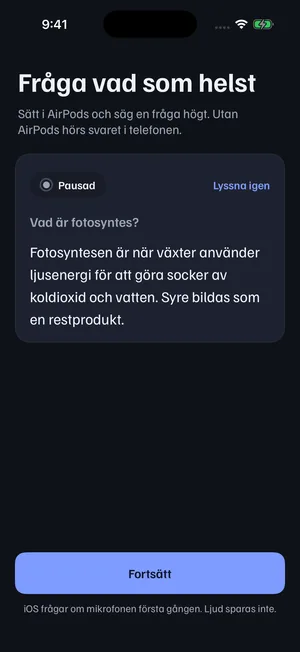
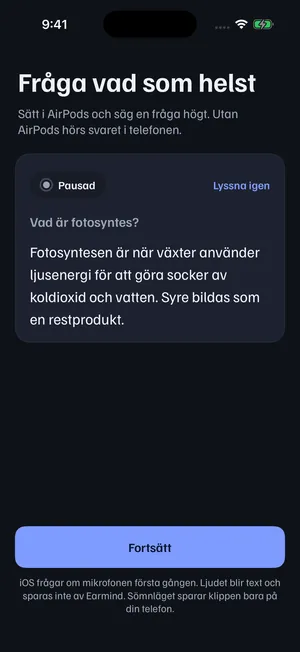
kelly: Ke44 sajtens stegbilder från appen i dag
Claude-Session: https://claude.ai/code/session_01Pb1HG96aS3oabWdcnzhyKn

Changed region(s): [[0.03, 0.7975, 0.96, 0.9509]]

diff --git a/site/index.html b/site/index.html
@@ -758,9 +758,9 @@
     <h2 id="start-h">Så kommer du igång</h2>
     <p class="lead">Tre steg. Sedan ligger telefonen i fickan och du pluggar med rösten.</p>
     <ol class="steps">
-      <li class="paper"><h3>Tryck Testa nu och fråga högt</h3><p>Inget konto. Sätt i AirPods och fråga vad som helst. Svaret hörs i örat.</p><picture><source media="(prefers-color-scheme: dark)" srcset="img/fraga-dark.webp"><img class="shot" src="img/fraga-light.webp" width="300" height="652" loading="lazy" alt="Skärmen Fråga vad som helst i appen: frågan Vad är fotosyntes? och svaret i ett kort, med knappen Fortsätt."></picture></li>
-      <li class="paper"><h3>Säg vilket prov du har</h3><p>Till exempel <span class="hand">”Jag har prov i biologi på fredag”</span>. Du kan också välja ämne och datum.</p><picture><source media="(prefers-color-scheme: dark)" srcset="img/steg1-dark.webp"><img class="shot" src="img/steg1-light.webp" width="300" height="652" loading="lazy" alt="Skärmen Har du prov snart? i appen: säg till exempel Jag har prov i biologi på fredag, eller välj ämne, datum och årskurs. Knappen Spara prov."></picture></li>
-      <li class="paper"><h3>Säg ”Lumen, förhör mig”</h3><p><span data-app></span> ställer frågor om det du pluggar och svarar på dina. Vill du bara ha svar, starta <span data-app></span> och fråga.</p><picture><source media="(prefers-color-scheme: dark)" srcset="img/steg3-dark.webp"><img class="shot" src="img/steg3-light.webp" width="300" height="652" loading="lazy" alt="Provläget i appen med brickan Lyssnar: frågan Vad är fotosyntes? och svaret, med knapparna Pausa och Avsluta."></picture></li>
+      <li class="paper"><h3>Tryck Testa nu och fråga högt</h3><p>Inget konto. Sätt i AirPods och fråga vad som helst. Svaret hörs i örat.</p><picture><source media="(prefers-color-scheme: dark)" srcset="img/fraga-dark.webp"><img class="shot" src="img/fraga-light.webp" width="300" height="652" loading="lazy" alt="Skärmen Fråga vad som helst i appen: frågan Vad är fotosyntes? och svaret i ett kort, knappen Fortsätt och raden om att ljudet blir text och inte sparas av Earmind."></picture></li>
+      <li class="paper"><h3>Säg vilket prov du har</h3><p>Till exempel <span class="hand">”Jag har prov i biologi på fredag”</span>. Du kan också skriva det.</p><picture><source media="(prefers-color-scheme: dark)" srcset="img/steg1-dark.webp"><img class="shot" src="img/steg1-light.webp" width="300" height="652" loading="lazy" alt="Skärmen Har du prov snart? i appen: säg till exempel Jag har prov i biologi på fredag, eller tryck Skriv i stället. Knappen Inte nu."></picture></li>
+      <li class="paper"><h3>Säg ”Lumen, förhör mig”</h3><p><span data-app></span> ställer frågor om det du pluggar och svarar på dina. Vill du bara ha svar, starta <span data-app></span> och fråga.</p><picture><source media="(prefers-color-scheme: dark)" srcset="img/steg3-dark.webp"><img class="shot" src="img/steg3-light.webp" width="300" height="652" loading="lazy" alt="Provläget för Biologiprovet med brickan Lyssnar: frågan Vad är fotosyntes? och svaret, och knapparna Pausa och Avsluta."></picture></li>
     </ol>
     <p class="shot-note">Skärmbilder från en testversion av appen.</p>
   </section>

diff --git a/docs/STATUS.md b/docs/STATUS.md
@@ -31,7 +31,7 @@ Last updated: 2026-11-08 by Angela (builder).
 - **Provläge (Angela, D36/D38) and Målbeskrivning + Egna kommandon (Angela, D37/D39):** hands-free tutor session (VAD end-of-turn 0.8 s, barge-in, recogniser gated while we speak, auto-end after 10 min releases the microphone, `mode: tutor` with the whole session's `recent_qa`, retried as `push_to_talk` while the backend rejects `tutor`); course goals compact ≤ 1 500 chars as `goals`; keyword commands matched STT-tolerantly and sent as `commands`, spoken "spara kommando …" stored and confirmed. Green in CI (run 41817986402, 249 app tests); **untested on device**; the backend (answer v8) still rejects `mode: tutor` (400, the app falls back to `push_to_talk`) and ignores the new `goals`/`commands` fields until Kevin's D36/D37 tasks land, so the tutor style and command effects are not yet observable. Also the D35 setting *Svarslängd* (Kort / Anpassad / Utförlig → backend `length`, Settings → Answers), green in run 41819618434 (250 app tests). Reports: `reports/2026-11-04-1214-angela-plugglage.md`, `reports/2026-11-04-1214-angela-goals-commands.md`; checklist §3r–3s.
 - **Easy switch to music (Angela, D33):** Pause/Resume on the listening screen, Lock Screen (Live Activity) and a Control; pause releases the audio session, interruptions never auto-resume (also with `shouldResume`), nothing is spoken while paused. New extension `LumenControls`. Green in CI (run 41806325518); **untested on device**, and the Control's process and Lock Screen resume are untested assumptions. Report: `reports/2026-11-04-1130-angela-d33-music-switch.md`.
 - **Queue D44–D58 (Angela, 2026-11-06):** Historik and Minne on the phone (D49/D56), Scribe as default recogniser with Apple as fallback (D44), Mikrofon per mode + comparison in Diagnostics (D55), mode picker with Intervjuläge and Rizzläge on the StudyMachine (D42/D43), report + Feedback & förslag + opt-in sharing (D57), Siri phrases, Start control and spoken pause (D58), checklist §3t–3z. Also fixed: `goals`/`commands` were sent where the backend does not read them. Green in CI (run 42259754856, 315 app tests). **Nothing has run on a device.** `/feedback` and `/shared-history` are not deployed yet. **Open for Aron:** the discreet indicator was not built (see report, Concerns). Report: `reports/2026-11-06-1830-angela-queue-d49-d58.md`.
-- **Offentlig demosida (Kelly, D62/D66/D86):** Kelly: **Ke43 klar (20:08):** A71 **godkänd**: AppIcon identisk med exakt/AppIcon-1024.png, röstningen med de sex exakta ikonerna i 2 × 3, märket i rubriken; `reports/2026-11-11-2008-kelly-ke43-granskning-a71.md`. **Ke42 klar (19:05):** sajten visar appens ikon (D glasklotet, exakt) i sidhuvudet, favicon och apple-touch-icon; Lighthouse 99/100/100/100, 1 536 kB; `reports/2026-11-11-1905-kelly-ke42-sajtens-ikon.md`. **Ke22 klar (19:04):** bildplan för de 7 koncepten med Ryans rättelser, slutbild Earmind (D121, exakt ikon), Start-inklipp ur CI och 7 omslag (scenbilderna kommer från Gemini) i `docs/marketing/annonser/ke22/`; cookiebanner och pixlar (Ryans B1) saknar punkt; `reports/2026-11-11-1904-kelly-ke22-bildplan.md`. **Ke41 klar (19:00):** A73 **godkänd** (D138-texten överallt, G3 stängd); L1: licensraden säger att ElevenLabs inte sparar ljudet (motsäger D135); `reports/2026-11-11-1900-kelly-ke41-granskning-a73.md`. **Ke40 klar (18:59):** exakta ChatGPT-ikoner (D139) i `docs/design/logo/rostning/exakt/`: A–F + AppIcon-1024 (D), bara beskurna 2,6–3,1 % för iOS-maskens hörn och uppskalade; **till Angela (A71): filerna är pushade**; `reports/2026-11-11-1859-kelly-ke40-exakta-ikoner.md`. **Väntar på kö (17:35).** Öppet: G3 "Ljud sparas inte" (Ke36) och K1 (Ke38) saknar punkt hos Angela. **Ke39 klar (16:31):** A64 största text **godkänd** på Tobys T13-tur (alla sex reglerna i SYSTEM.md avsnitt 10 håller); två låga rester (lägesikonen skalar inte, Lyssnars underrubrik kapas); `reports/2026-11-11-1631-kelly-ke39-granskning-a64.md`. **Ke38 klar (14:57):** Tobys T8c visar att Ke35 fungerar (Start med "Här startar du Earmind", Provläge 4 tryck i stället för 8, ett blad per öppning efter A66); K1 "Dela historik" ska vara grå sekundär knapp; `reports/2026-11-11-1457-kelly-ke38-granskning-t8c.md`. **Ke37 klar (13:21):** regel för största text i SYSTEM.md avsnitt 10 (aldrig ord brutna mitt i, rader med två delar staplas, rubriker kapas inte), täcker Tobys T11 fynd 1–4 och två till; `reports/2026-11-11-1321-kelly-ke37-storsta-text.md`. **Ke36 klar (12:45):** A55–A61 **godkända** (Earmind, Ke35 Start-rutan, V1/M1/G2 stängda); **öppet G3: "Ljud sparas inte" är osant** (Sov sparar klipp i 30 dagar) i intro, Första frågan och Om appen; ordagranna texter till Deangelo/Angela; `reports/2026-11-11-1245-kelly-ke36-granskning-a55-a61.md`. **Ke35 klar (12:01):** designbeslut på Tobys A50-fynd: första passet slutar på Start med en ruta en gång, varje Starta börjar med tom Lyssnar, Provläge frågar högst en sak (2 tryck i stället för 8); `docs/design/forsta-passet.md`, `reports/2026-11-11-1201-kelly-ke35-forsta-passet.md`. **Ke34 klar (11:28):** A52 **godkänd**, A54 **godkänd med V1** ("Rösta" ser aktiv ut fast den är avstängd: `LumenButtonStyle` saknar avstängt utseende), A53 **godkänd med M1** (textknapp i bläck); kvar G2 grå ikoner i lägesbladet och G3 "Ljud sparas inte" (osant med Sov och inspelning); CI 42999887377; `reports/2026-11-11-1128-kelly-ke34-granskning-a52-a54.md`. **Ke33 klar (10:39):** A50 **godkänd** på CI-bilderna 42993726421 (ljust/mörkt); S2 och Välj läge redan rättade i 537ea48; kvar G1 länk till A52 (med A52), G2 grå ikoner i lägesbladet (låg), G3 "Ljud sparas inte" före A53; `reports/2026-11-11-1039-kelly-ke33-granskning-a50.md`. **Ke32 klar (10:30):** sajten heter Earmind (titel, sidhuvud, metadata, FAQ, demorutan), väckningsordet ”Lumen” kvar i citaten; ny delningsbild `og-earmind.png`; Lighthouse 99/100/100/100, 1 504 kB; `reports/2026-11-11-1030-kelly-ke32-earmind-sajten.md`. **Ke30 klar (10:28):** Mina svar ritat för A53 (`docs/design/mina-svar.md`, 8 skisser ljust/mörkt: lista per prov, Lumens förslag → ditt svar, inspelning med Klar, versioner, brytaren, brickan "Ditt svar" i Provläget); till Aron: inspelning högst 10 min och samtycket måste nämna Scribe före A53; `reports/2026-11-11-1028-kelly-ke30-mina-svar.md`. **Ke29 klar (10:28):** underlag `docs/design/start-vadkan.md` (7 skisser ljust/mörkt): A50 granskad i koden (S1 länk "Allt Lumen kan ›", S2 inget Spotify-exempel före Spotify), A52 "Vad kan Lumen?" ritad (13 rader med verklig status) och bladet efter första svaret; sajten har sektionen Vad kan Lumen? med Siri-raden ("Kommer snart" på det som inte är provat), demorutan Standardläge/Förhör mig; Lighthouse 99/100/100/100, 1 504 kB; `reports/2026-11-11-1028-kelly-ke29-start-vadkan.md`. **Ke31 klar (10:18):** röstningens tre loggor (D127) som rena vektorer, mörk och ljus, samma storlek och ljus (bakgrund 0,010–0,016, toppljus 0,67–0,72), läsbara i 60 och 29 pt; till Angela (A54): `docs/design/logo/rostning/vektor/README.md`; `reports/2026-11-11-1018-kelly-ke31-rostning-vektor.md`. Nästa: Ke29. **Ke24 klar (21:23):** Aron valde logga nummer 4 (bock med ljudvågor); ritad som vektor i `docs/design/logo/` (AppIcon 1024 ljus/mörk/tonad, symbol, favicon), läsbar i 29 pt; demosidans sidhuvud och favicons bytta (Lighthouse 100×4, 1 515 kB); **till Angela: AppIcon (appen har ingen) och `LumenLogo` enligt SYSTEM.md avsnitt 5**; `reports/2026-11-10-2123-kelly-ke24-logga.md`. Väntar på kö, överlämning `docs/HANDOVER-KELLY.md`. **Ke28 klar (20:30):** appens CI-bilder (42876421405) godkända mot SYSTEM.md, 6 fynd; viktigast **Elias hörlur är vit och Apple-lik** (byts före App Store); `reports/2026-11-10-2030-kelly-ke28-granskning.md`. **Ke27 klar (20:28):** sömnläget ritat för A49 (`docs/design/sovlage.md`: Sov i Byt läge, eget samtycke första gången, svart natt med Godmorgon, morgonrapport med en mening, tre siffror, tidslinje och klipp); **"Ljud sparas inte" i intro/samtycke blir osant med A49**, förslag i filen. **Ke26 klar (20:24):** D121 i heron ("AI:n i dina AirPods. För vardagen, skolan och jobbet." + "Starta Lumen en gång, sen finns den i örat. Säg ”Lumen” så svarar den."; "hela dagen" utelämnat tills batteriet är mätt), Lighthouse 100×4, 1 507 kB; `reports/2026-11-10-2024-kelly-ke26-d121-sidan.md`. **Ke25 klar (20:12):** utkast till App Store-sidan i `docs/marketing/appstore/` (6 bilder i 6,9" och 6,1" ur CI 42876421405, texter, åldersgräns 13+ där Rizz är osäker, integritetsetiketter efter A41); **integritetspolicy saknas** och krävs; slutbild till Ryans annonser i `docs/marketing/annonser/slutbild/`; `reports/2026-11-10-2012-kelly-ke25-appstore.md`. **Ke23 klar (20:20):** sju namn kollade i App Store, EUIPO/TMview och DNS; **Earwise rött** (appen "EarWise: Ear Training", hörselkliniken earwise.se, ljudappen earwise.app), Earpiece AI rött, "Pod"/"Whisper" Apple-/OpenAI-risk; **rekommenderar Earmind** (Proviska reserv) och ChatGPT-symbol 4; PRV ej kontrollerat; `docs/design/namn.md`, `reports/2026-11-10-1932-kelly-ke23-namn-logga.md`. **Ke24 väntar på Arons nummer.** **A30 granskad: godkänd** (Ke20:s fyra fynd rättade i simulatorbilder; 6 mindre nya fynd till Angela, bl.a. "Startar …" på Har du prov snart?, demodata som blandar ämnen i övningsprovet). **Ke18 klar:** sidans tre steg visar appen i det nya systemet (Första frågan, Har du prov snart?, Provläget med "Lyssnar"); Lighthouse 99/100/100/100, bara Chromium; `reports/2026-11-10-1249-kelly-granskning-a30-ke18.md`. Kellys session stoppar enligt PLAN 2e (två komprimeringar); Ke22–Ke25 väntar på nästa Kelly-session, se `docs/HANDOVER-KELLY.md`. **Ke21 klar:** "Rizz 18+" och "bara för dig som är 18 år" borta från sidan och skissen Byt läge (D112); sidan beskriver inga spärrar utöver integritet och demons gräns (B2, B3); `reports/2026-11-10-1240-kelly-ke21-d112-sidan.md`. **Ke20 klar:** A26 **godkänd** (R1–R6 stängda i simulatorbilder). Nytt fynd: Övningsprovet (A16) visar ingen lyssnarbricka (skyddsräcke), plus 3 mindre; `reports/2026-11-10-1133-kelly-granskning-a26.md`. Ke18 del 1: sidans steg 1 har appens nya Första frågan; steg 2–3 väntar på bilderna `addExam` och Provläget lyssnar. **Ke19 klar:** demorutan har D97:s två val (Förhör mig = tre Provlägesfrågor med inspelade svar utan anrop, Få A-svar till provet = livedemon, förvald); Lighthouse 99/100/100/100, 1 491 kB, bara Chromium; `reports/2026-11-10-1046-kelly-ke19-d97-pa-sidan.md`. **Ke9 klar** (en väg på demosidan: demo → "Så kommer du igång" i 3 steg → en knapp; mobil 8 533 → 4 226 px, Lighthouse 100; designunderlag för appen i `docs/design/enkel-start.md` till A18; `reports/2026-11-10-0735-kelly-ke9-enkel-start.md`; live, Pages-deploy grön). Ke10 klar (underlag för Start utan prov, Lyssnar och Mikrofon nekad; `reports/2026-11-10-0735-kelly-ke10-vanliga-vagen.md`). Ke11 klar (FAQ synlig på sidan, samma ord i demons rad; `reports/2026-11-10-0740-kelly-ke11-ord-faq.md`). Ke12b klar (designspec app mot sida i `docs/design/designspec.md`; `reports/2026-11-10-0738-kelly-ke12b-designspec.md`). **Ke12 klar:** nytt designsystem `docs/design/SYSTEM.md` (ersätter D86:s skollook i appen) med 3 loggförslag och 5 skärmar före/efter till A18; `reports/2026-11-10-0746-kelly-ke12-proffsig-pluggapp.md`. Ke17 klar: A18 **godkänd med rättelser** (Start godkänd; R1–R4 till Angela före nästa T3), `reports/2026-11-10-0805-kelly-granskning-a18.md`. Ke16 klar: annonserna i nya systemet (`docs/marketing/annonser/system/`); `reports/2026-11-10-0802-kelly-ke16-annonser-system.md`. Ke15 klar: ny delningsbild `og-lumen.png`, site 1 487 kB; `reports/2026-11-10-0800-kelly-ke15-delningsbild.md`. Ke14 klar: SYSTEM.md del 2 (fem skärmar till A18/A22); `reports/2026-11-10-0759-kelly-ke14-system-del2.md`. Ke13 klar: D97 två knappar på provkortet i SYSTEM.md och skisserna; `reports/2026-11-10-0754-kelly-ke13-d97-tva-knappar.md`. Ke13b klar: sidan i SYSTEM.md (ingen handstil eller rutpapper, Kalam bort, 1 699 kB); `reports/2026-11-10-0751-kelly-ke13-sida-nya-systemet.md`. Ke3 klar (steg med T3-bilder, animation, FAQ, sitemap). Ke2 klar (fokus till svaret efter en fråga, träffytor 44 px, taket för tal provat live med fejkad mikrofon; `reports/2026-11-08-1815-kelly-ke2-oscar-fynd.md`). Ke1 klar (riktiga Provläge-exempel med inspelat ljud, väntelisterad efter svaret, svepbara exempelfrågor på mobil, inga layoutskift, delningsbild och favicon; 61 kB vid start; `reports/2026-11-08-1640-kelly-ke1-demo.md`). Sidan är **publicerad** på https://aronstenlund-code.github.io/aronstenlund-airpods-ai/ (Pages på 2026-11-08, run 42486945392: check och deploy gröna). Live verifierat i Chromium: en riktig fråga gav svar (signup, answer, tts 200), typsnitten laddas och CORS tillåter adressen. Appens design (D86) med platshållare för foto. Ändringar i `site/` publiceras av sig själva vid push till main. **Ej testad på iPhone, Safari eller AirPods.** Kvar: riktigt foto. Rapporter: `reports/2026-11-08-1250-kelly-demo-publish.md`, `reports/2026-11-08-1450-kelly-demo-d86.md`.
+- **Offentlig demosida (Kelly, D62/D66/D86):** Kelly: **Ke44 klar (20:10):** sajtens tre stegbilder från appen i dag (bort med "Ljud sparas inte." och "förhör Lumen"); Lighthouse 99/100/100/100, 1 528 kB; `reports/2026-11-11-2010-kelly-ke44-stegbilder.md`. **Ke43 klar (20:08):** A71 **godkänd**: AppIcon identisk med exakt/AppIcon-1024.png, röstningen med de sex exakta ikonerna i 2 × 3, märket i rubriken; `reports/2026-11-11-2008-kelly-ke43-granskning-a71.md`. **Ke42 klar (19:05):** sajten visar appens ikon (D glasklotet, exakt) i sidhuvudet, favicon och apple-touch-icon; Lighthouse 99/100/100/100, 1 536 kB; `reports/2026-11-11-1905-kelly-ke42-sajtens-ikon.md`. **Ke22 klar (19:04):** bildplan för de 7 koncepten med Ryans rättelser, slutbild Earmind (D121, exakt ikon), Start-inklipp ur CI och 7 omslag (scenbilderna kommer från Gemini) i `docs/marketing/annonser/ke22/`; cookiebanner och pixlar (Ryans B1) saknar punkt; `reports/2026-11-11-1904-kelly-ke22-bildplan.md`. **Ke41 klar (19:00):** A73 **godkänd** (D138-texten överallt, G3 stängd); L1: licensraden säger att ElevenLabs inte sparar ljudet (motsäger D135); `reports/2026-11-11-1900-kelly-ke41-granskning-a73.md`. **Ke40 klar (18:59):** exakta ChatGPT-ikoner (D139) i `docs/design/logo/rostning/exakt/`: A–F + AppIcon-1024 (D), bara beskurna 2,6–3,1 % för iOS-maskens hörn och uppskalade; **till Angela (A71): filerna är pushade**; `reports/2026-11-11-1859-kelly-ke40-exakta-ikoner.md`. **Väntar på kö (17:35).** Öppet: G3 "Ljud sparas inte" (Ke36) och K1 (Ke38) saknar punkt hos Angela. **Ke39 klar (16:31):** A64 största text **godkänd** på Tobys T13-tur (alla sex reglerna i SYSTEM.md avsnitt 10 håller); två låga rester (lägesikonen skalar inte, Lyssnars underrubrik kapas); `reports/2026-11-11-1631-kelly-ke39-granskning-a64.md`. **Ke38 klar (14:57):** Tobys T8c visar att Ke35 fungerar (Start med "Här startar du Earmind", Provläge 4 tryck i stället för 8, ett blad per öppning efter A66); K1 "Dela historik" ska vara grå sekundär knapp; `reports/2026-11-11-1457-kelly-ke38-granskning-t8c.md`. **Ke37 klar (13:21):** regel för största text i SYSTEM.md avsnitt 10 (aldrig ord brutna mitt i, rader med två delar staplas, rubriker kapas inte), täcker Tobys T11 fynd 1–4 och två till; `reports/2026-11-11-1321-kelly-ke37-storsta-text.md`. **Ke36 klar (12:45):** A55–A61 **godkända** (Earmind, Ke35 Start-rutan, V1/M1/G2 stängda); **öppet G3: "Ljud sparas inte" är osant** (Sov sparar klipp i 30 dagar) i intro, Första frågan och Om appen; ordagranna texter till Deangelo/Angela; `reports/2026-11-11-1245-kelly-ke36-granskning-a55-a61.md`. **Ke35 klar (12:01):** designbeslut på Tobys A50-fynd: första passet slutar på Start med en ruta en gång, varje Starta börjar med tom Lyssnar, Provläge frågar högst en sak (2 tryck i stället för 8); `docs/design/forsta-passet.md`, `reports/2026-11-11-1201-kelly-ke35-forsta-passet.md`. **Ke34 klar (11:28):** A52 **godkänd**, A54 **godkänd med V1** ("Rösta" ser aktiv ut fast den är avstängd: `LumenButtonStyle` saknar avstängt utseende), A53 **godkänd med M1** (textknapp i bläck); kvar G2 grå ikoner i lägesbladet och G3 "Ljud sparas inte" (osant med Sov och inspelning); CI 42999887377; `reports/2026-11-11-1128-kelly-ke34-granskning-a52-a54.md`. **Ke33 klar (10:39):** A50 **godkänd** på CI-bilderna 42993726421 (ljust/mörkt); S2 och Välj läge redan rättade i 537ea48; kvar G1 länk till A52 (med A52), G2 grå ikoner i lägesbladet (låg), G3 "Ljud sparas inte" före A53; `reports/2026-11-11-1039-kelly-ke33-granskning-a50.md`. **Ke32 klar (10:30):** sajten heter Earmind (titel, sidhuvud, metadata, FAQ, demorutan), väckningsordet ”Lumen” kvar i citaten; ny delningsbild `og-earmind.png`; Lighthouse 99/100/100/100, 1 504 kB; `reports/2026-11-11-1030-kelly-ke32-earmind-sajten.md`. **Ke30 klar (10:28):** Mina svar ritat för A53 (`docs/design/mina-svar.md`, 8 skisser ljust/mörkt: lista per prov, Lumens förslag → ditt svar, inspelning med Klar, versioner, brytaren, brickan "Ditt svar" i Provläget); till Aron: inspelning högst 10 min och samtycket måste nämna Scribe före A53; `reports/2026-11-11-1028-kelly-ke30-mina-svar.md`. **Ke29 klar (10:28):** underlag `docs/design/start-vadkan.md` (7 skisser ljust/mörkt): A50 granskad i koden (S1 länk "Allt Lumen kan ›", S2 inget Spotify-exempel före Spotify), A52 "Vad kan Lumen?" ritad (13 rader med verklig status) och bladet efter första svaret; sajten har sektionen Vad kan Lumen? med Siri-raden ("Kommer snart" på det som inte är provat), demorutan Standardläge/Förhör mig; Lighthouse 99/100/100/100, 1 504 kB; `reports/2026-11-11-1028-kelly-ke29-start-vadkan.md`. **Ke31 klar (10:18):** röstningens tre loggor (D127) som rena vektorer, mörk och ljus, samma storlek och ljus (bakgrund 0,010–0,016, toppljus 0,67–0,72), läsbara i 60 och 29 pt; till Angela (A54): `docs/design/logo/rostning/vektor/README.md`; `reports/2026-11-11-1018-kelly-ke31-rostning-vektor.md`. Nästa: Ke29. **Ke24 klar (21:23):** Aron valde logga nummer 4 (bock med ljudvågor); ritad som vektor i `docs/design/logo/` (AppIcon 1024 ljus/mörk/tonad, symbol, favicon), läsbar i 29 pt; demosidans sidhuvud och favicons bytta (Lighthouse 100×4, 1 515 kB); **till Angela: AppIcon (appen har ingen) och `LumenLogo` enligt SYSTEM.md avsnitt 5**; `reports/2026-11-10-2123-kelly-ke24-logga.md`. Väntar på kö, överlämning `docs/HANDOVER-KELLY.md`. **Ke28 klar (20:30):** appens CI-bilder (42876421405) godkända mot SYSTEM.md, 6 fynd; viktigast **Elias hörlur är vit och Apple-lik** (byts före App Store); `reports/2026-11-10-2030-kelly-ke28-granskning.md`. **Ke27 klar (20:28):** sömnläget ritat för A49 (`docs/design/sovlage.md`: Sov i Byt läge, eget samtycke första gången, svart natt med Godmorgon, morgonrapport med en mening, tre siffror, tidslinje och klipp); **"Ljud sparas inte" i intro/samtycke blir osant med A49**, förslag i filen. **Ke26 klar (20:24):** D121 i heron ("AI:n i dina AirPods. För vardagen, skolan och jobbet." + "Starta Lumen en gång, sen finns den i örat. Säg ”Lumen” så svarar den."; "hela dagen" utelämnat tills batteriet är mätt), Lighthouse 100×4, 1 507 kB; `reports/2026-11-10-2024-kelly-ke26-d121-sidan.md`. **Ke25 klar (20:12):** utkast till App Store-sidan i `docs/marketing/appstore/` (6 bilder i 6,9" och 6,1" ur CI 42876421405, texter, åldersgräns 13+ där Rizz är osäker, integritetsetiketter efter A41); **integritetspolicy saknas** och krävs; slutbild till Ryans annonser i `docs/marketing/annonser/slutbild/`; `reports/2026-11-10-2012-kelly-ke25-appstore.md`. **Ke23 klar (20:20):** sju namn kollade i App Store, EUIPO/TMview och DNS; **Earwise rött** (appen "EarWise: Ear Training", hörselkliniken earwise.se, ljudappen earwise.app), Earpiece AI rött, "Pod"/"Whisper" Apple-/OpenAI-risk; **rekommenderar Earmind** (Proviska reserv) och ChatGPT-symbol 4; PRV ej kontrollerat; `docs/design/namn.md`, `reports/2026-11-10-1932-kelly-ke23-namn-logga.md`. **Ke24 väntar på Arons nummer.** **A30 granskad: godkänd** (Ke20:s fyra fynd rättade i simulatorbilder; 6 mindre nya fynd till Angela, bl.a. "Startar …" på Har du prov snart?, demodata som blandar ämnen i övningsprovet). **Ke18 klar:** sidans tre steg visar appen i det nya systemet (Första frågan, Har du prov snart?, Provläget med "Lyssnar"); Lighthouse 99/100/100/100, bara Chromium; `reports/2026-11-10-1249-kelly-granskning-a30-ke18.md`. Kellys session stoppar enligt PLAN 2e (två komprimeringar); Ke22–Ke25 väntar på nästa Kelly-session, se `docs/HANDOVER-KELLY.md`. **Ke21 klar:** "Rizz 18+" och "bara för dig som är 18 år" borta från sidan och skissen Byt läge (D112); sidan beskriver inga spärrar utöver integritet och demons gräns (B2, B3); `reports/2026-11-10-1240-kelly-ke21-d112-sidan.md`. **Ke20 klar:** A26 **godkänd** (R1–R6 stängda i simulatorbilder). Nytt fynd: Övningsprovet (A16) visar ingen lyssnarbricka (skyddsräcke), plus 3 mindre; `reports/2026-11-10-1133-kelly-granskning-a26.md`. Ke18 del 1: sidans steg 1 har appens nya Första frågan; steg 2–3 väntar på bilderna `addExam` och Provläget lyssnar. **Ke19 klar:** demorutan har D97:s två val (Förhör mig = tre Provlägesfrågor med inspelade svar utan anrop, Få A-svar till provet = livedemon, förvald); Lighthouse 99/100/100/100, 1 491 kB, bara Chromium; `reports/2026-11-10-1046-kelly-ke19-d97-pa-sidan.md`. **Ke9 klar** (en väg på demosidan: demo → "Så kommer du igång" i 3 steg → en knapp; mobil 8 533 → 4 226 px, Lighthouse 100; designunderlag för appen i `docs/design/enkel-start.md` till A18; `reports/2026-11-10-0735-kelly-ke9-enkel-start.md`; live, Pages-deploy grön). Ke10 klar (underlag för Start utan prov, Lyssnar och Mikrofon nekad; `reports/2026-11-10-0735-kelly-ke10-vanliga-vagen.md`). Ke11 klar (FAQ synlig på sidan, samma ord i demons rad; `reports/2026-11-10-0740-kelly-ke11-ord-faq.md`). Ke12b klar (designspec app mot sida i `docs/design/designspec.md`; `reports/2026-11-10-0738-kelly-ke12b-designspec.md`). **Ke12 klar:** nytt designsystem `docs/design/SYSTEM.md` (ersätter D86:s skollook i appen) med 3 loggförslag och 5 skärmar före/efter till A18; `reports/2026-11-10-0746-kelly-ke12-proffsig-pluggapp.md`. Ke17 klar: A18 **godkänd med rättelser** (Start godkänd; R1–R4 till Angela före nästa T3), `reports/2026-11-10-0805-kelly-granskning-a18.md`. Ke16 klar: annonserna i nya systemet (`docs/marketing/annonser/system/`); `reports/2026-11-10-0802-kelly-ke16-annonser-system.md`. Ke15 klar: ny delningsbild `og-lumen.png`, site 1 487 kB; `reports/2026-11-10-0800-kelly-ke15-delningsbild.md`. Ke14 klar: SYSTEM.md del 2 (fem skärmar till A18/A22); `reports/2026-11-10-0759-kelly-ke14-system-del2.md`. Ke13 klar: D97 två knappar på provkortet i SYSTEM.md och skisserna; `reports/2026-11-10-0754-kelly-ke13-d97-tva-knappar.md`. Ke13b klar: sidan i SYSTEM.md (ingen handstil eller rutpapper, Kalam bort, 1 699 kB); `reports/2026-11-10-0751-kelly-ke13-sida-nya-systemet.md`. Ke3 klar (steg med T3-bilder, animation, FAQ, sitemap). Ke2 klar (fokus till svaret efter en fråga, träffytor 44 px, taket för tal provat live med fejkad mikrofon; `reports/2026-11-08-1815-kelly-ke2-oscar-fynd.md`). Ke1 klar (riktiga Provläge-exempel med inspelat ljud, väntelisterad efter svaret, svepbara exempelfrågor på mobil, inga layoutskift, delningsbild och favicon; 61 kB vid start; `reports/2026-11-08-1640-kelly-ke1-demo.md`). Sidan är **publicerad** på https://aronstenlund-code.github.io/aronstenlund-airpods-ai/ (Pages på 2026-11-08, run 42486945392: check och deploy gröna). Live verifierat i Chromium: en riktig fråga gav svar (signup, answer, tts 200), typsnitten laddas och CORS tillåter adressen. Appens design (D86) med platshållare för foto. Ändringar i `site/` publiceras av sig själva vid push till main. **Ej testad på iPhone, Safari eller AirPods.** Kvar: riktigt foto. Rapporter: `reports/2026-11-08-1250-kelly-demo-publish.md`, `reports/2026-11-08-1450-kelly-demo-d86.md`.
 - **D63 + indicator (Angela, 2026-11-06):** Rizzläge flirty only behind an 18+ gate, new Socialt läge, slimmer indicator that keeps its text and Stop (D68, Aron confirmed "Behåll texten"). Green in CI (run 42268384817, 320 app tests). **Untested on device.** Both live modes fail against the server until Kevin's D63 is deployed. Report: `reports/2026-11-06-1945-angela-d63-indicator.md`.
 - **Device install without a Mac (Angela, D70, 2026-11-07):** CI archives the app unsigned and uploads `Lumen-unsigned.ipa` (artifact `Lumen-unsigned`, 14 days) on green builds of main and on manual runs; no entitlements in the repo, so nothing is dropped. Swedish steps: `docs/INSTALL-SIDELOADLY.md`. Aron installed it on an iPhone 14 Pro (iOS 26.5).
 - **Crash when the microphone starts, fixed (Angela, 2026-11-07):** the capture tap closure inherited `@MainActor` and Swift 6 trapped on Core Audio's real-time queue (9 crashes on device). Six callbacks (two audio taps, the synthesizer buffer callback, the player completion handler, the SFSpeech result and authorization handlers) are now nonisolated; a test calls each from a background queue. **D71:** Provläge never auto-ends by default. Commit `4a50887`. **Untested on device** until Aron reinstalls. Report: `reports/2026-11-07-1640-angela-crash-fix-callbacks.md`.

diff --git a/prompts/queue/BOARD.md b/prompts/queue/BOARD.md
@@ -18,5 +18,5 @@ Kolumnerna:
 | Angela (app) | Opus 5.5 (claude-opus-5-5) | low (sessionens inställning) | A72 del 2 i CI (17d2937): en hållen fråga senast 6 s efter den hördes / 1,5 s efter fortsättningen | pågår | A71 klar (exakta ikoner, röstning A–F, CI 43079695710). A73, A74, A72 del 1 gröna. T15 visade att mikrofonen öppnas 0,6–0,8 s efter talet (krav 2 uppfyllt i simulatorn) | 2026-11-11 20:02 | 26 punkter, byt snart |
 | Oscar (QA) | Opus 5.5 (claude-opus-5-5) | (sessionens inställning) | – (O51 Omtest K42 väntar på Kevins K42; omtest O51s när isCutOff rättats) | väntar på kö | **O51 förmätning 19:35** (före K42): namn 0/10, fakta 17/20 ('Mona Sahlin'), längd 5/10, klagomål 1/10 (7 tysta). **O50 19:26: K41 godkänd 25/25** (A–F, ogiltiga nekas, gamla röster kvar; 3 teströster väntar på Arons ja). **O51s 18:52: REGRESSION** hela frågor tysta i Standardläge (isCutOff) — Kevin prio 1. Natt API 0,01 av 2 USD, ElevenLabs 0 | 2026-11-11 19:35 | 18 punkter, byt (överlämning `docs/HANDOVER-OSCAR.md`) |
 | Toby (apptest) | Opus 5.5 (claude-opus-5-5) | (sessionens inställning) | T16 skärmrunda A69/A71 (stående uppgift) kör; T15b när A72 är pushad | pågår | T15 klar 19:30: väntan sitter efter "Half a question: Scribe asked for the rest now" (13–26 s med VAD + bärarfokus); mikrofonen öppnas 0,6–0,8 s efter rösten | 2026-11-11 19:40 | 9 punkter, byt snart (överlämning docs/HANDOVER-toby.md) |
-| Kelly (demosida) | Opus 5.5 (claude-opus-5-5) | (sessionens inställning) | – (kön tom; stående uppgift) | väntar på kö | Ke43 klar 20:08: A71 godkänd (AppIcon = exakt, sex exakta i röstningen, märket i rubriken). I kväll Ke22, Ke40–Ke43. API 0 USD | 2026-11-11 20:08 | 16 punkter, byt snart (överlämning docs/HANDOVER-KELLY.md) |
+| Kelly (demosida) | Opus 5.5 (claude-opus-5-5) | (sessionens inställning) | – (kön tom) | väntar på kö | Ke44 klar 20:10: sajtens stegbilder från appen i dag (Lighthouse 99/100/100/100, 1 528 kB). Ke43: A71 godkänd. I kväll Ke22, Ke40–Ke44. API 0 USD | 2026-11-11 20:10 | 17 punkter, byt snart (överlämning docs/HANDOVER-KELLY.md) |
 | Ryan (annonser) | – | – | R1 konton och spårning | ny | – | – | – |

diff --git a/prompts/queue/kelly.md b/prompts/queue/kelly.md
@@ -132,3 +132,5 @@ Aron (2026-11-08): demosidan måste bli väldigt bra.
 - [x] klar 2026-11-11 19:05 → reports/2026-11-11-1905-kelly-ke42-sajtens-ikon.md **Ke42 – Stående uppgift (PLAN 2b): sajten med appens ikon (D129/D139)** (effort: low, Kelly själv). Sidhuvudet, favicon och apple-touch-icon visar symbol 4; byt till den exakta glasklot-ikonen. `site/` ≤ 2 MB, Lighthouse ≥ 95.
 
 - [x] klar 2026-11-11 20:08 → reports/2026-11-11-2008-kelly-ke43-granskning-a71.md (godkänd) **Ke43 – Granska A71 (exakt AppIcon, märket i rubriken och röstningen med sex)** (effort: low, Kelly själv, enligt Arons prompt). Mot `docs/design/logo/rostning/exakt/README.md`. Bilder: CI "Simulator screenshots" 43079705733.
+
+- [x] klar 2026-11-11 20:10 → reports/2026-11-11-2010-kelly-ke44-stegbilder.md **Ke44 – Stående uppgift (PLAN 2b): sajtens stegbilder från appen i dag** (effort: low, Kelly själv). Steg 1 visar "Ljud sparas inte." (osant, D138), steg 2 "förhör Lumen dig". Byt mot CI 43079705733 (e35e472), samma storlek. `site/` ≤ 2 MB, Lighthouse ≥ 95.

diff --git a/reports/2026-11-11-2010-kelly-ke44-stegbilder.md b/reports/2026-11-11-2010-kelly-ke44-stegbilder.md
@@ -1,0 +1,17 @@
+# Kelly Ke44: sajtens stegbilder från appen i dag (2026-11-11 20:10)
+
+Stående uppgift (PLAN 2b). Sajtens tre steg i "Så kommer du igång" visade appen från A30 (2026-11-10): steg 1 med den
+osanna raden "Ljud sparas inte." (D138, rättad i appen av A73) och steg 2 med "förhör Lumen dig" och det gamla
+formuläret.
+
+## Vad som gjordes
+- `site/img/fraga-*`, `steg1-*`, `steg3-*` (ljust och mörkt, 300 × 652, WebP) bytta mot CI "Simulator
+  screenshots" 43079705733 (main e35e472): Första frågan med D138-raden, "Har du prov snart?" med "Säg till exempel"
+  och "Skriv i stället", Provläget för Biologiprovet. Oförändrade appbilder, bara nedskalade.
+- Steg 2: "Du kan också välja ämne och datum." → "Du kan också skriva det." (som appen nu).
+- Alt-texterna beskriver de nya bilderna.
+
+## Mätt
+Lighthouse mobil **99 / 100 / 100 / 100**, `site/` **1 528 kB**, inga JS-fel (`reports/2026-11-11-ke44-bilder/`).
+
+**Ej provat i Safari eller på iPhone.** Kostnad: API 0 USD, ElevenLabs 0 tecken.
